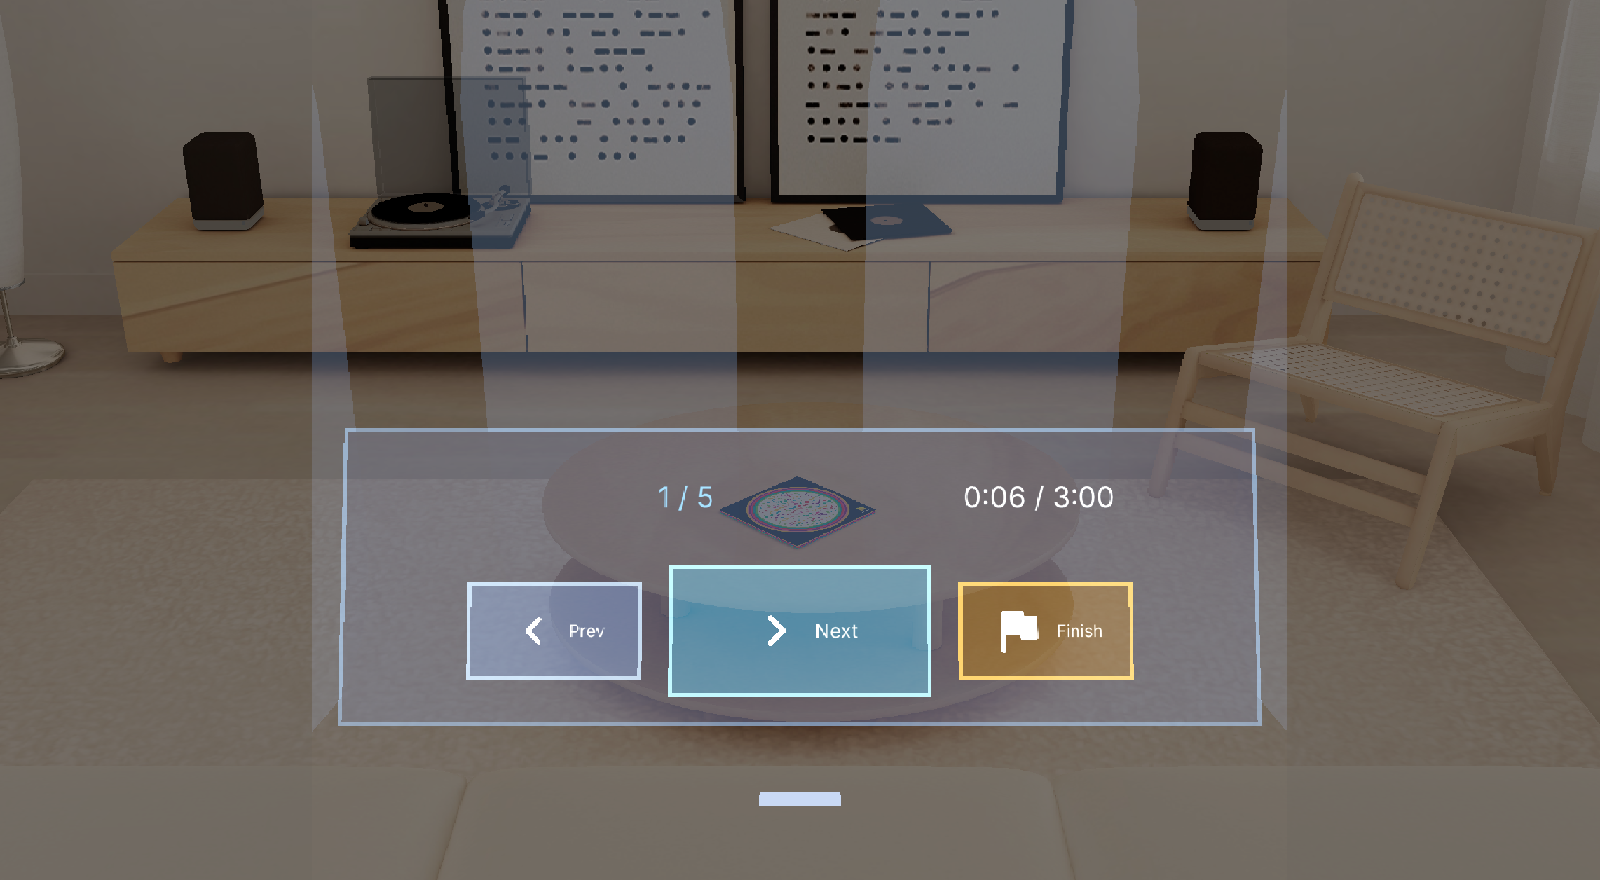
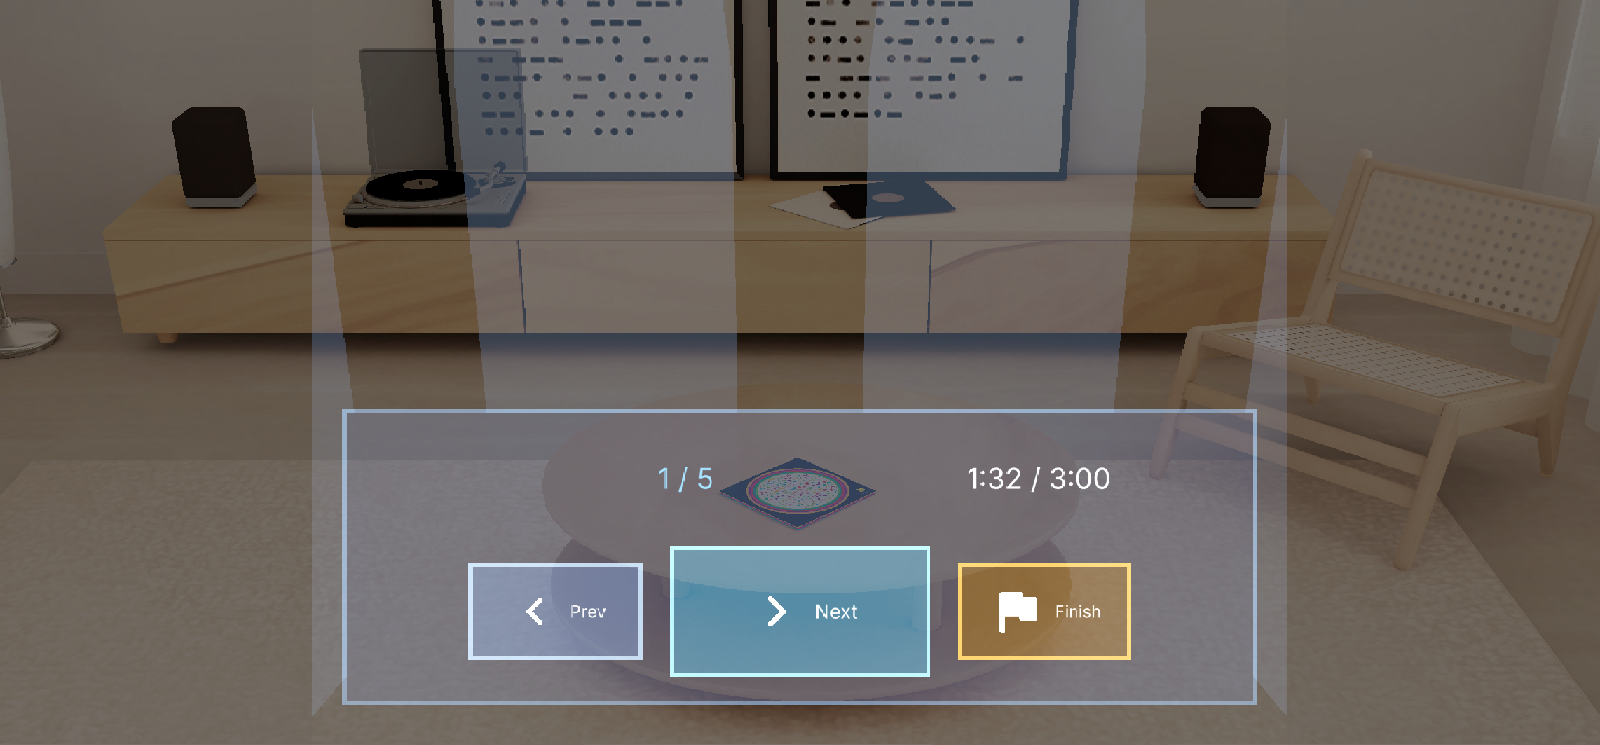
polish: clear nudge box from pill, lift Summary off the frames, clean podium still, rebuild all-live demo video

diff --git a/Assets/Scripts/EyesUpApp.ts b/Assets/Scripts/EyesUpApp.ts
@@ -42,6 +42,10 @@ const CHEVRON_ICON_Y = 6.5;
 const CHEVRON_BACK_W = 15;
 const CHEVRON_BACK_H = 19;
 const CHEVRON_BACK_Y = 4.2;
+/** Round 7: hint x offset (was 20) and drop so the backing clears the opening pill's corner in the nudge still. */
+const CHEVRON_X_CM = 21;
+/** Round 7: hint dropped this far so the backing's top edge sits below the pill's bottom edge. */
+const CHEVRON_DROP_CM = 6.5;
 const CHEVRON_TEXT = new vec4(1.0, 0.82, 0.35, 1);
 /** ≈ 1.5 cm caption at 100 cm (S3: "left" 1.5 cm). */
 const CHEVRON_CAPTION_SIZE = 150;
@@ -56,7 +60,7 @@ const SETUP_DISTANCE_CM = 110;
 const SETUP_BELOW_EYES_CM = -10;
 const SUMMARY_DISTANCE_CM = 150;
 /** Round 6: raised so the stat tiles and tip clear the room's wall art (additive display: art shows through any fill). */
-const SUMMARY_ABOVE_EYES_CM = 17;
+const SUMMARY_ABOVE_EYES_CM = 20;
 /** design: panels follow the head only while the preview/device pose settles, then stay put. */
 const PANEL_SETTLE_SECONDS = 1.0;
 
@@ -138,6 +142,8 @@ export class EyesUpApp extends BaseScriptComponent {
     this.buildCueCard();
     [this.edgeHintLeft, this.edgeHintRight].forEach((so, i) => {
       if (!so) return;
+      const hp = so.getTransform().getLocalPosition();
+      so.getTransform().setLocalPosition(new vec3((i === 0 ? -1 : 1) * CHEVRON_X_CM, hp.y - CHEVRON_DROP_CM, hp.z));
       const t = so.getComponent('Component.Text') as Text;
       if (t) {
         t.text = i === 0 ? 'left' : 'right';

diff --git a/typings/lens-studio-shim.d.ts b/typings/lens-studio-shim.d.ts
@@ -69,6 +69,7 @@ declare enum VerticalOverflow {
 declare class Transform {
   getWorldPosition(): vec3;
   setWorldPosition(p: vec3): void;
+  getLocalPosition(): vec3;
   setLocalPosition(p: vec3): void;
   setWorldRotation(r: quat): void;
   setLocalRotation(r: quat): void;

diff --git a/docs/spec-matrix.md b/docs/spec-matrix.md
@@ -120,7 +120,7 @@ Live headless MCP: 6 done-criteria LEAF scenarios PASSED (2.6, 4.3, 11.8, 7.6, 7
 
 ## Polish round 6 (2026-11-01, judge-visible gaps)
 
-Live headless MCP: 8 LEAF scenarios PASSED (the 6 done criteria plus repeated_nudge and finish_pulses_at_time), no E/F lines. `npm run check`: 130/130 tests, typecheck and lint clean. Screenshots retaken: devpost/screenshots 01, 02, 03, 05, 06 and devpost/walkthrough 01, 02, 03, 05, 06. The demo video (.local/video) was not rebuilt: it still shows the earlier Setup, pill, nudge and Summary looks, so it now differs from the build and the screenshots.
+Live headless MCP: 8 LEAF scenarios PASSED (the 6 done criteria plus repeated_nudge and finish_pulses_at_time), no E/F lines. `npm run check`: 130/130 tests, typecheck and lint clean. Screenshots retaken: devpost/screenshots 01, 02, 03, 05, 06 and devpost/walkthrough 01, 02, 03, 05, 06. The demo video was rebuilt in round 7 (below).
 
 | id | artifact section | expected | status | evidence |
 |---|---|---|---|---|
@@ -129,3 +129,15 @@ Live headless MCP: 8 LEAF scenarios PASSED (the 6 done criteria plus repeated_nu
 | R5-S2b | win | opening pill readable at video size | match | EyesUpApp.ts PILL_SCALE 0.9 -> 1.3, PILL_Y 5 -> 10 (clears the halo). 02-audience-lit-halo.png |
 | R5b-S3a | 07 S3 | chevron and "left" clearly visible | match | EyesUpApp.ts: chevron 6 -> 10 cm, caption 90 -> 150, amber backing box, pulse floor 0.75 (NudgeController.chevronAlpha, unit test). 03-nudge-chevron.png |
 | R5b-S4a | 07 S4 | clean podium still | match | 05-podium.png recaptured with no LEAF log overlay and cropped above the stray stage-line bar |
+
+## Polish round 7 (2026-11-01, verifier follow-ups)
+
+Live headless MCP: 8 LEAF scenarios PASSED, no E/F lines. `npm run check`: 130/130 tests, typecheck and lint clean.
+
+| id | artifact section | expected | status | evidence |
+|---|---|---|---|---|
+| R7-S4 | 07 S4 | podium still has no stray bar | match | the bar was the StageLine floor strip entering the capture; 05-podium.png recaptured and cropped to 1600x745 above it (devpost/screenshots, walkthrough) |
+| R7-S3 | 07 S3 | nudge box and opening pill do not touch | match | EyesUpApp.ts CHEVRON_X_CM 21, CHEVRON_DROP_CM 6.5: backing top sits 21 px below the pill in 03-nudge-chevron.png |
+| R7-S5 | 07 S5 | Summary and Re-place buttons clear the picture frames | match | SUMMARY_ABOVE_EYES_CM 17 -> 20; 06-summary.png shows about 20 px of wall between the panel border and the frames |
+| R7-S2 | win | gallery shows the larger pill clear of the halo | match | .local/screenshots/01-halo.png regenerated from the new video (gallery moment 0.8 s into the halo segment) |
+| R7-S6 | 07 S6 | demo video matches the current build | match | .local/video/eyes-up-demo.mp4 (2:39, not committed) rebuilt from a fresh all-live real-camera capture (nudge, podium, cue, Summary all live; no stills); narration says 8 scenarios, 130 tests, 1:40 run with 16 % left. Previous file kept as eyes-up-demo-prev.mp4 |

diff --git a/devpost/submission.md b/devpost/submission.md
@@ -34,10 +34,10 @@ A new Lens built with CLAD and the Lens Studio MCP skill pack, driven end to end
 Studio MCP tools. The scene uses UIKit panels and buttons, the audience, halo, nudge and cue card
 are TypeScript components. All logic (state machine, gaze zones, halo attention, nudge rules, cue
 card, stage-line timer, session stats, panel view models, deck import parser) is plain TypeScript
-with no Lens Studio dependency, so Node tests it: 129 unit and integration tests, typecheck and
-lint all pass. Seven LEAF scenarios pass in the Interactive Preview (start places the audience,
+with no Lens Studio dependency, so Node tests it: 130 unit and integration tests, typecheck and
+lint all pass. Eight LEAF scenarios pass in the Interactive Preview (start places the audience,
 gaze fills the halo, neglect triggers a nudge, card then pill, dwell expands the pill, finish shows
-the summary, repeated nudge).
+the summary, repeated nudge, stage-line pulses at 60 s and 30 s).
 
 ## What we learned
 
